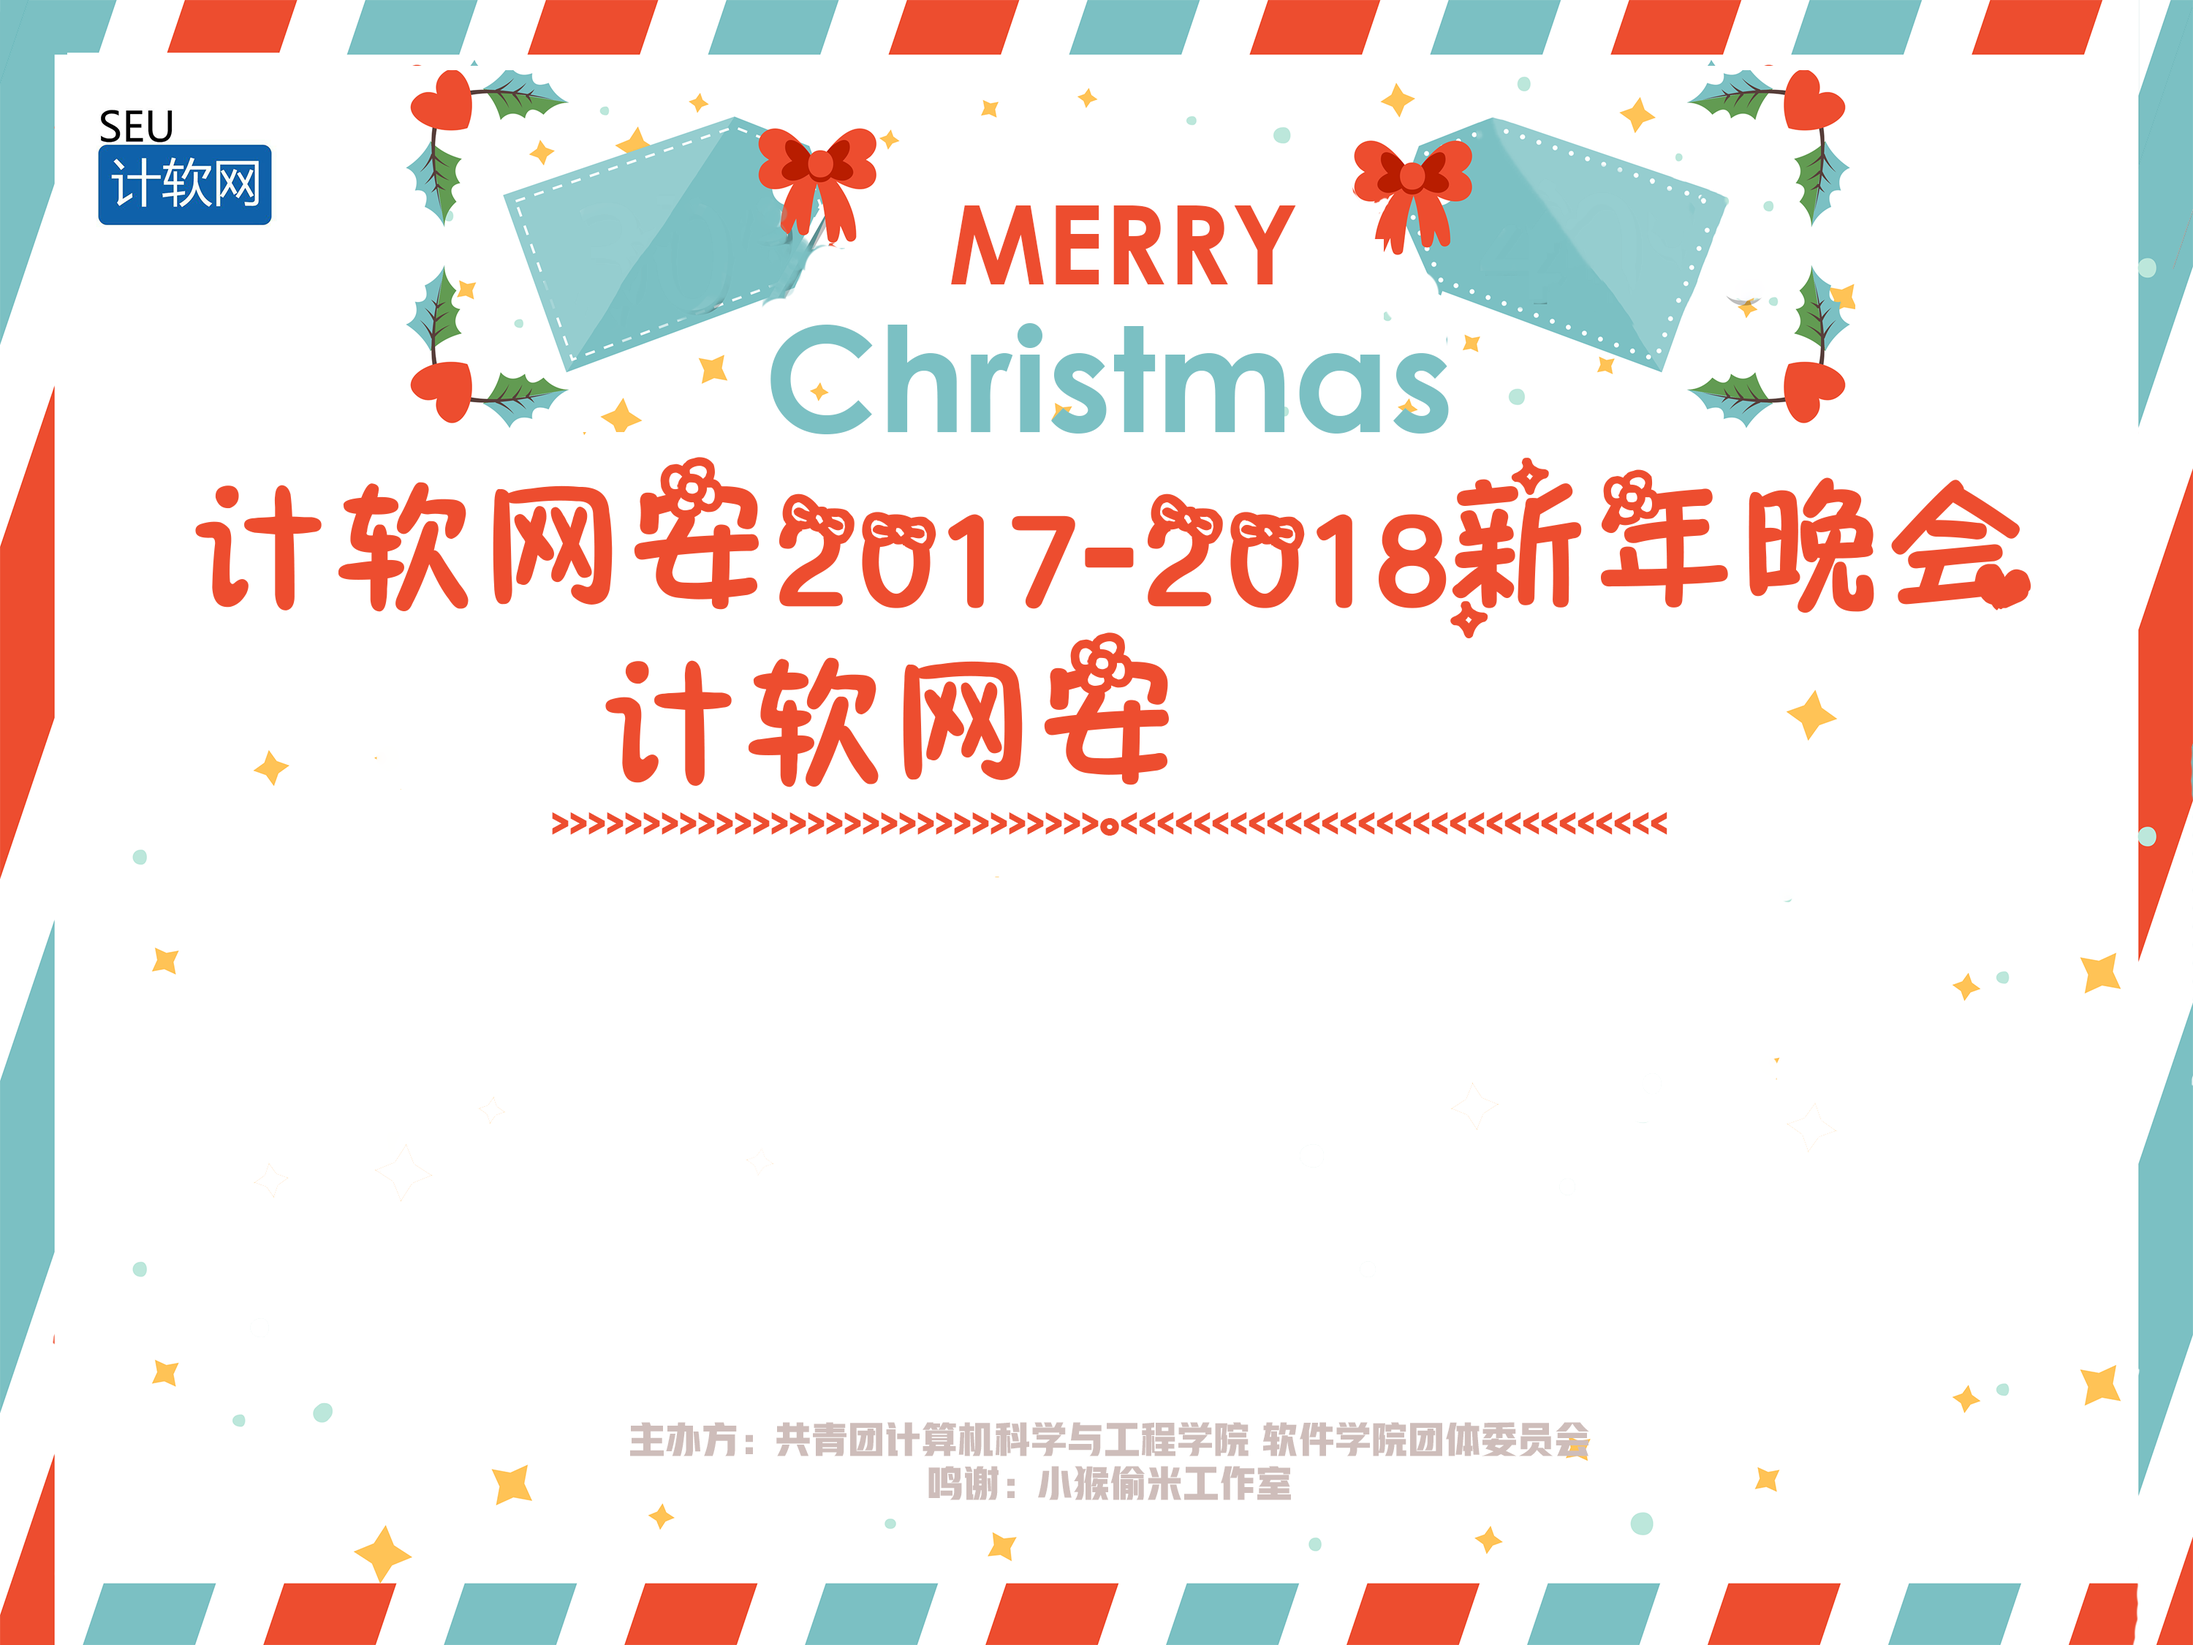
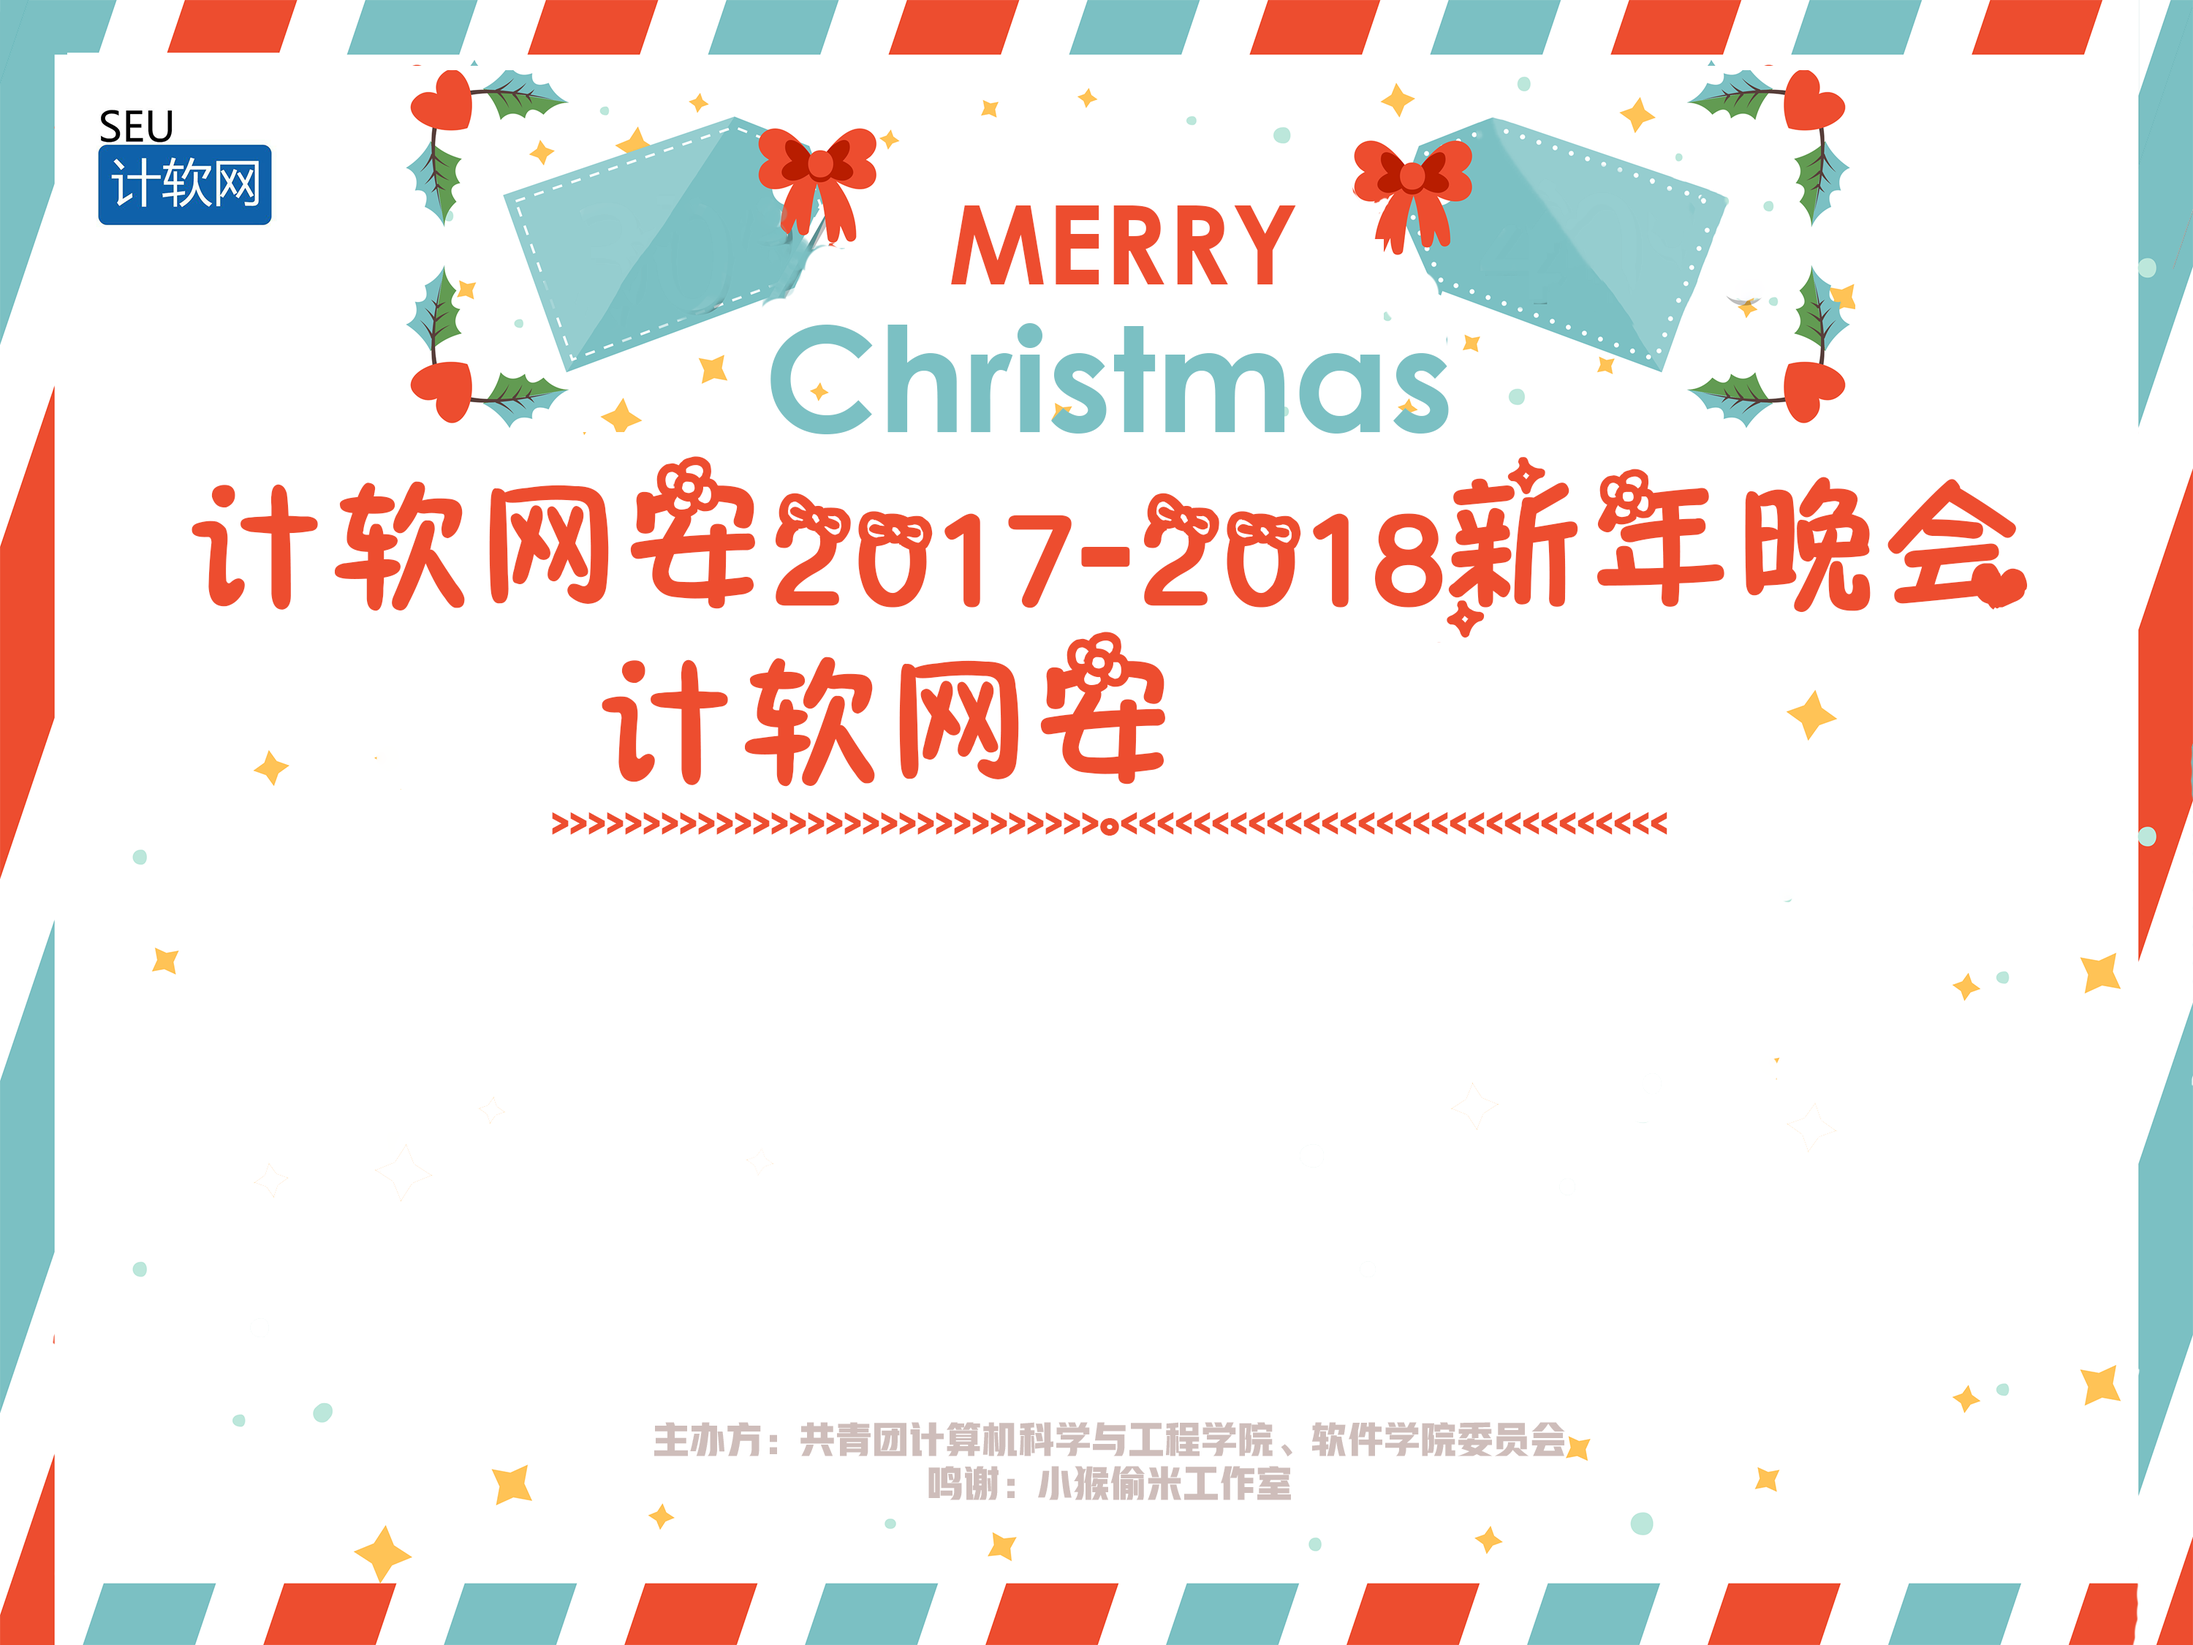
添加呼吸灯测试连接，主办方更新

diff --git a/main-screen/src/components/MainScreen.vue b/main-screen/src/components/MainScreen.vue
@@ -1,5 +1,8 @@
 <template>
   <div>
+    <transition name="fade">
+      <img src="../assets/imgs/flash.png" v-if="isAlive" class="flash"/>
+    </transition>
     <div class="container" v-if="isRunning">
       <img class="title" src="../assets/imgs/start-title.png"/>
       <img class="bottom" src="../assets/imgs/start-bottom.png"/>
@@ -27,6 +30,7 @@ export default {
       msg: 0,
       count: 0,
       isRunning: false,
+      isAlive: false,       //与服务器连接是否alive，控制呼吸灯
       flag: false           //服务端每0.5s发送一次数据，判断当前是1s内的第一次还是第二次
     }
   },
@@ -37,7 +41,7 @@ export default {
   },
   created () {
     this.socket = new WebSocket("wss://myseu.cn/redpack/main")
-    this.socket.onmessage = cb
+    this.socket.onmessage = this.cb
     this.checkSocket()
   }, 
   methods: {
@@ -56,6 +60,12 @@ export default {
     cb (event) {
       var temp = JSON.parse(event.data)
       let that = this
+
+      //设置呼吸灯每0.25s闪一次
+      this.isAlive = true
+      setTimeout(() => {
+        this.isAlive = false
+      }, 250)
       
       if (that.msg == 17) {           //服务器已经发来17，最后一秒
         if (!that.flag) {             //flag为false，说明此时是17.5s
@@ -84,6 +94,22 @@ export default {
 </script>
 
 <style scoped>
+.flash{
+  width: 50px;
+  height: 50px;
+  position: absolute;
+  top: 1900px;
+  left: 200px; 
+}
+
+.fade-enter-active, .fade-leave-active {
+  transition: opacity .25s
+}
+
+.fade-enter, .fade-leave-to {
+  opacity: 0
+}
+
 .container{
   width: 3000px;
   height: 2250px;

diff --git a/second-screen/src/components/SecondScreen.vue b/second-screen/src/components/SecondScreen.vue
@@ -9,6 +9,8 @@
         <a class="count" v-else-if="index == 2" style="color:#FFD700;">{{item.s}}</a>
         <a class="count" v-else>{{item.s}}</a>
       </div>
+
+      <img src="../assets/imgs/sponsor.png" class="sponsor"/>
     </div>
 
     <div class="packet-amount">
@@ -20,6 +22,7 @@
         <a v-else>{{item}}</a>
       </div>
     </div>
+
   </div>
 </template>
 
@@ -138,5 +141,13 @@ a{
 
 .packet-amount div a{
   font-size: 30px;
+}
+
+.sponsor{
+  width: 520px;
+  height: 48px;
+  position: absolute;
+  top: 1130px;
+  left: 160px;
 }
 </style>
